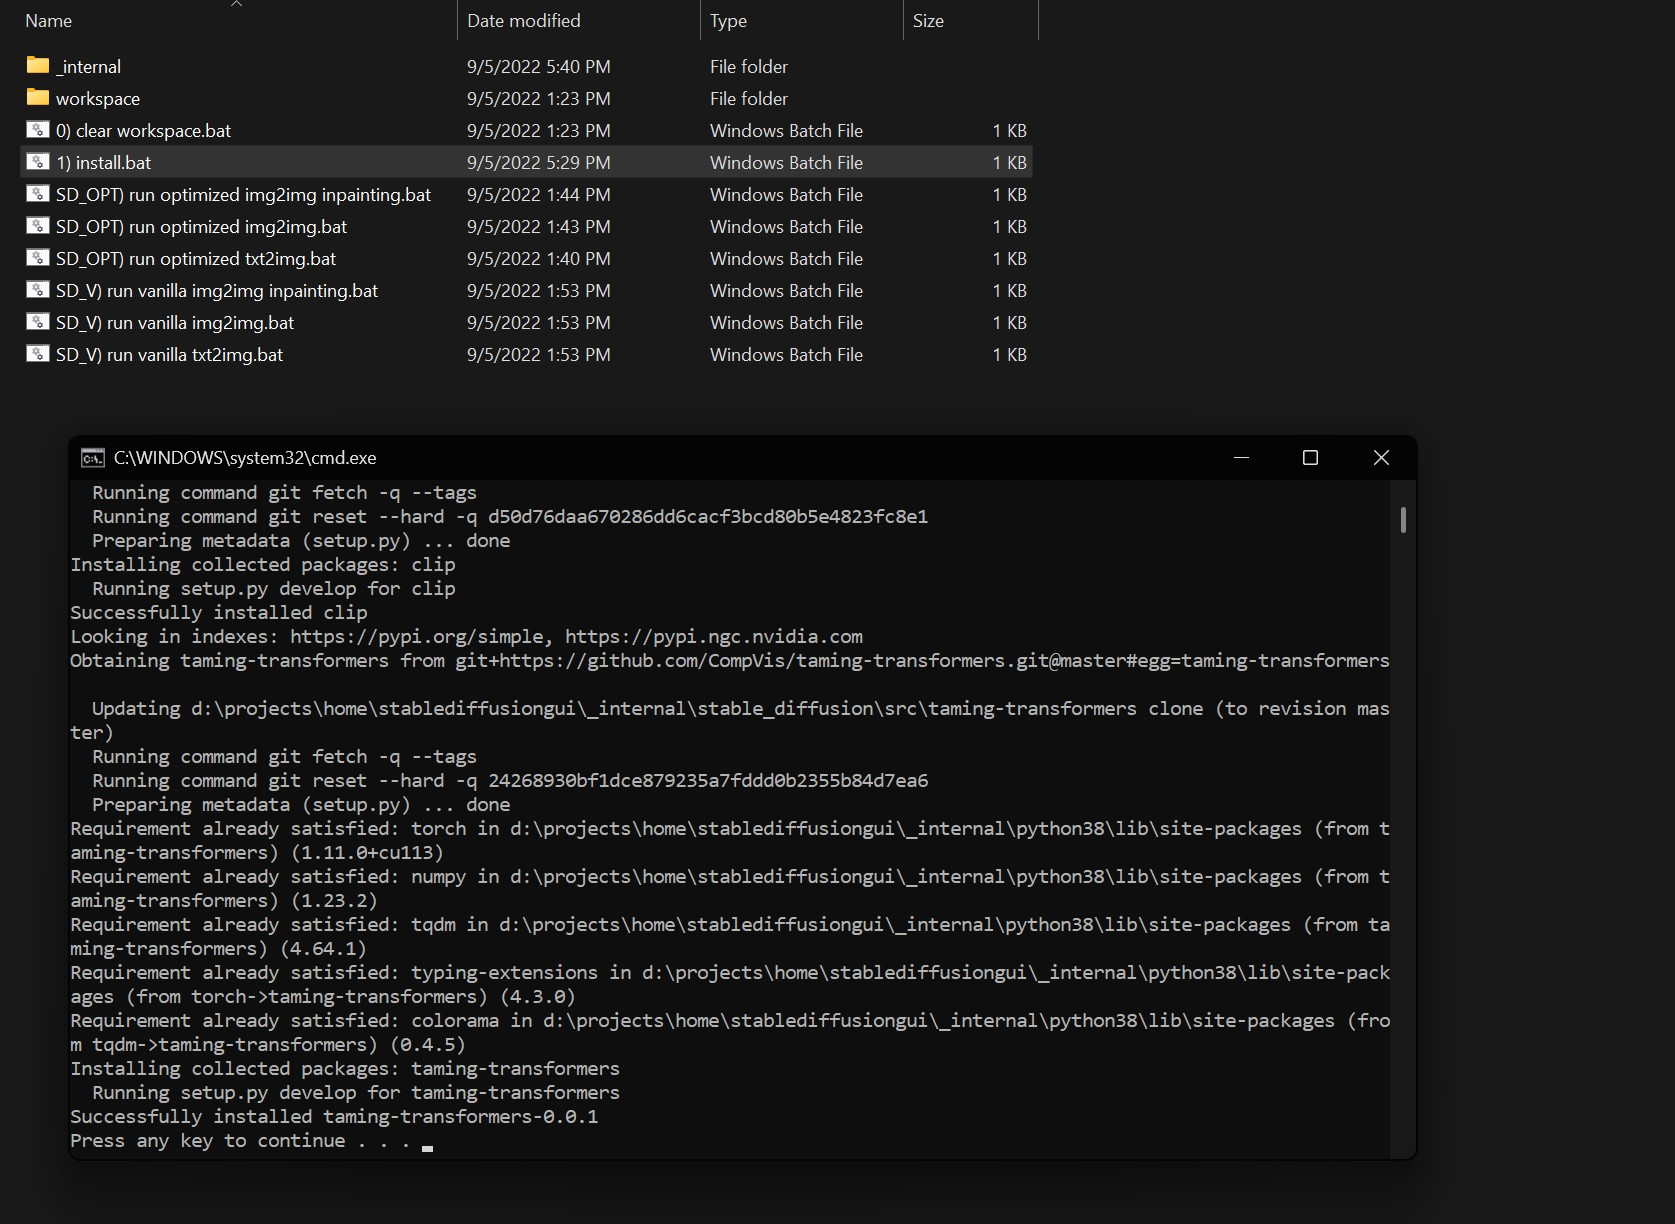
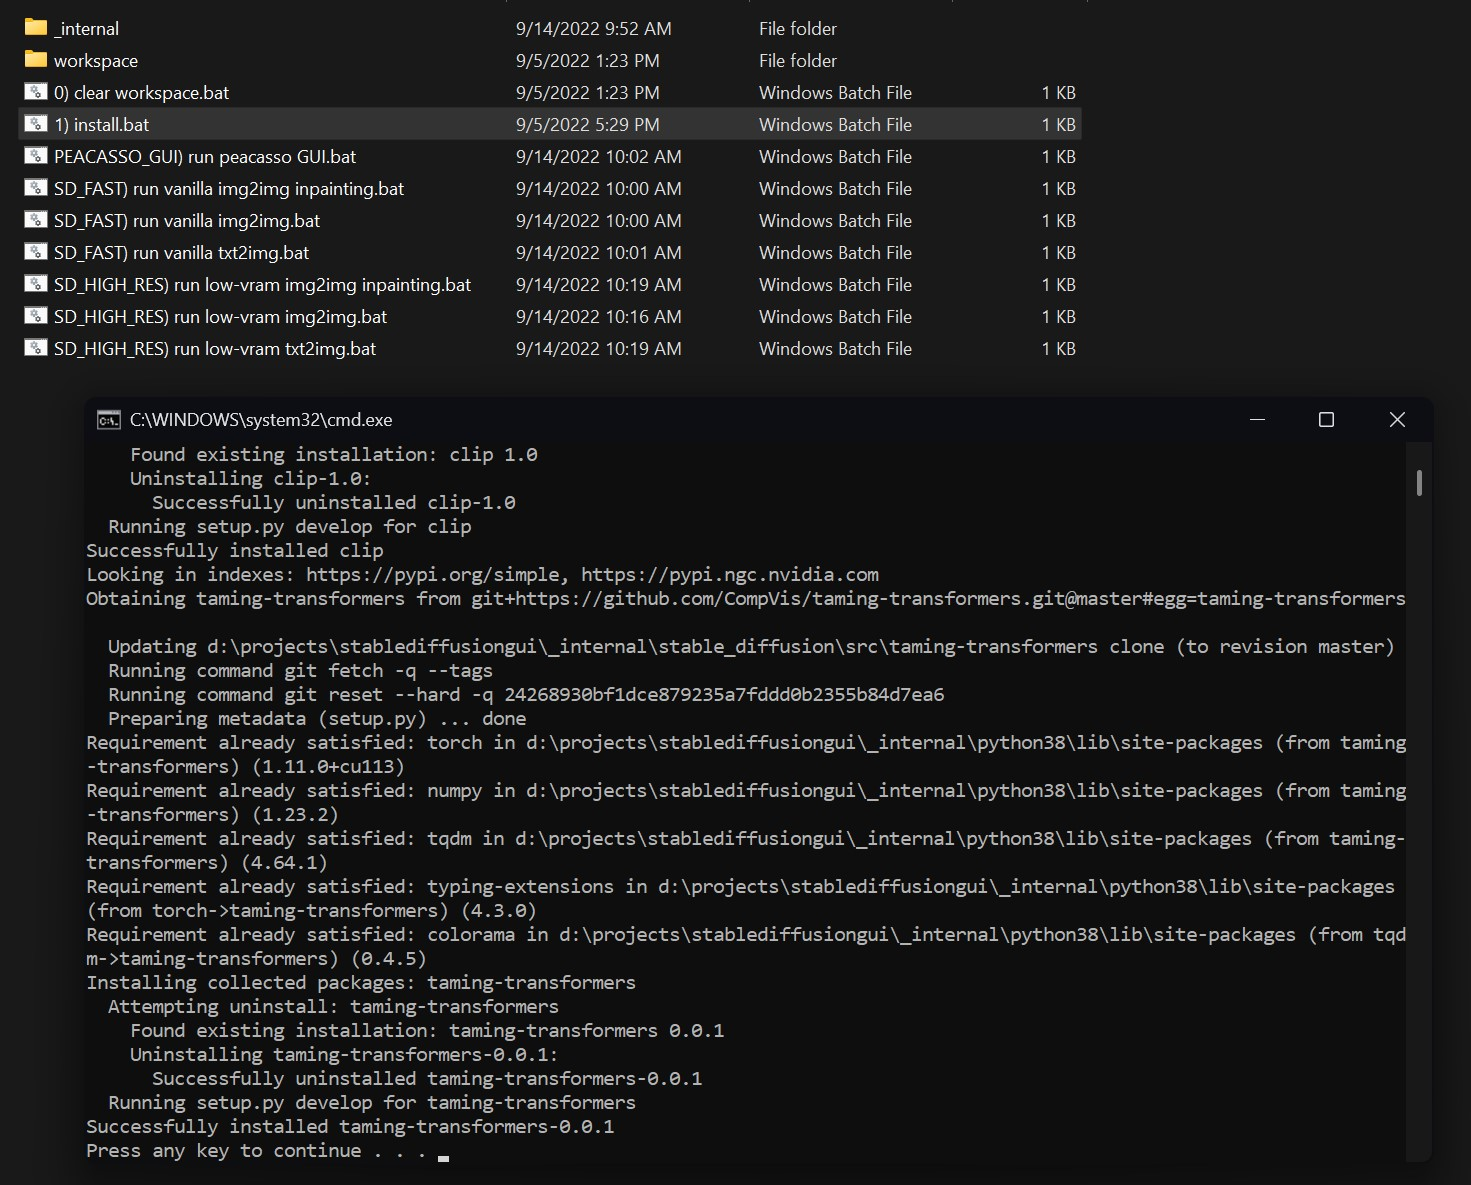
updated windows binary

Changed region(s): [[0.0306, 0.3435, 0.9483, 0.9992], [0.0, 0.0, 0.7342, 0.3122]]

diff --git a/GUI_TUTORIAL.md b/GUI_TUTORIAL.md
@@ -1,16 +1,16 @@
 # Stable Diffusion GUI tutorial (for now Windows only)
 ### Step 0. Download the packed GUI
 If you want to go the simple way, 
-[download this](https://e1.pcloud.link/publink/show?code=XZyAC4ZjdVrWPYcvKbXQhXFiF4vfF9D0Iwk) (8 gb).<br>
+[download this](https://www.mediafire.com/file/5otde49sen0f9xc/StableDiffusionGui.zip/file) (8 gb).<br>
 
 If you already have a model.ckpt file,
-[download this](https://mega.nz/file/aFZTGLJA#-jpo2uuZu0KvsUeS6cpPTUcwLpolowszY3Vcch5IbUA) (4 gb).
+[download this](https://www.mediafire.com/file/h156krz3xom6jdy/StableDiffusionGui_no_model.zip/file) (4 gb).
 ### Step 1. 
 Extract the downloaded archive.
 
 If you downloaded the 4 gb archive, put the model.ckpt file to StableDiffusionGui\_internal\stable_diffusion\models\ldm\stable-diffusion-v1
 
-<img src="assets/tutorial_imgs/step 1.jpg"/>
+<img src="assets/tutorial_imgs/step 1.jpg" alt=""/>
 
 
 also install git if not installed
@@ -26,28 +26,37 @@ run the
 1) install.bat
 ```
 file. It should produce the output as in the screenshot.
-<img src="assets/tutorial_imgs/step 3.jpg"/>
+
+<img src="assets/tutorial_imgs/step 3.jpg" alt=""/>
 
 ### Step 4.1
-Each file explained:
 
-``` SD_OPT) run optimized txt2img.bat ``` is used to run the txt2img gradio interface. after double-clicking it, go to step 5.
+`
+PEACASSO_GUI) run peacasso GUI.bat
+`
 
-```SD_OPT) run optimized img2img.bat``` is used to run the img2img gradio interface. after double-clicking it, go to step 5.
+<br> Utilizes the peacasso gui, which looks like this:
 
-```SD_OPT) run optimized img2img inpainting.bat``` is used to run the img2img inpainting gradio interface. after double-clicking it, go to step 5.
-
-<br> Choose only one of these three if you are limited by resources or want to generate bigger-resolution images. Otherwise, go to step 4.2.
-
-<img src="assets/tutorial_imgs/step 4.1.jpg"/>
+<img src="assets/tutorial_imgs/peacasso.png" alt=""/>
 
 ### Step 4.2
-Obviously the same as 4.1 but better speed, though more resource consumption.
-<img src="assets/tutorial_imgs/step 4.2.jpg"/>
+Each file explained:
+
+``` SD_FAST) run vanilla txt2img.bat ``` is used to run the txt2img gradio interface. after double-clicking it, go to step 5.
+
+```SD_FAST) run vanilla img2img.bat``` is used to run the img2img gradio interface. after double-clicking it, go to step 5.
+
+```SD_FAST) run vanilla img2img inpainting.bat``` is used to run the img2img inpainting gradio interface. after double-clicking it, go to step 5.
+
+<br> If you are limited by resources or want to generate bigger-resolution images, go to step 4.3.
+
+### Step 4.3
+Obviously the same as 4.2 but slower, though allows to generate much higher-resolution images, see [the comparison table](https://github.com/neonsecret/stable-diffusion#:~:text=Below%20you%20can%20see%20the%20comparison%20table.).
 
 ### Step 4.3
 If you encounter this error, just press 'OK', it doesn't mean anything.<br>
-<img src="assets/tutorial_imgs/step 5.jpg"/>
+
+<img src="assets/tutorial_imgs/step 5.jpg" alt=""/>
 
 ### Step 5
 After clicking one of the 6 .bat files, you should see output like this.
@@ -55,7 +64,8 @@ After clicking one of the 6 .bat files, you should see output like this.
 Choose the red link in 99% cases.
 Choose the blue one if you have troubles with the red one. They  lead to the same page.
 Copy your link of choice and paste it into your web-browser. (Chrome Firefox whatever)
-<img src="assets/tutorial_imgs/step 6.png"/>
+
+<img src="assets/tutorial_imgs/step 6.png" alt=""/>
 
 ### Step +. Gradio interface explained.
 Once you open the page, you should see interface like this. It may vary because each mode has it's interface. 
@@ -66,6 +76,9 @@ Though I think it's intuitive, I will explain some of the params:
 - scale: how much your prompt will influence the image, experiment with it
 - turbo: if you have memory errors, try disabling it.
 - sampler: different sampler may produce a bit different results.
+- speed_mp: the more the slower, but the bigger images you can produce. Typically 2-5 are fine values.
+
 <br>
 Other params are better to be left as-is.
-<img src="assets/tutorial_imgs/step 7.jpg"/>
+
+<img src="assets/tutorial_imgs/step 7.jpg" alt=""/>
